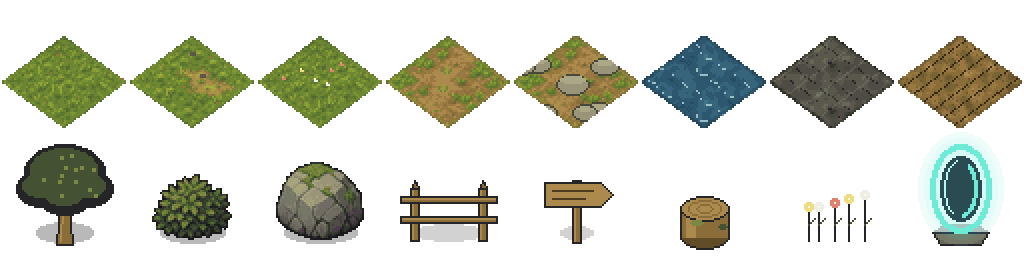
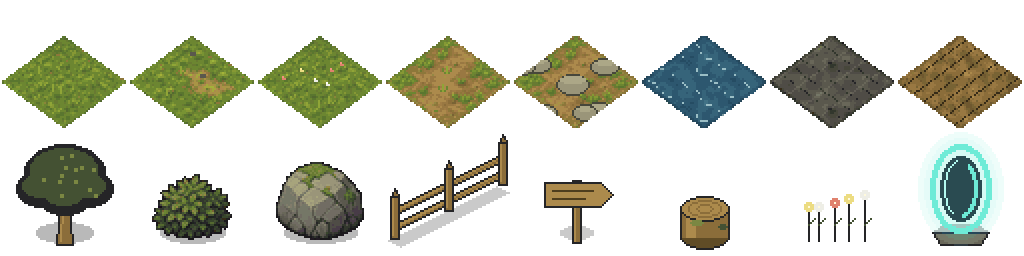
build 376 — the fence is isometric
It was drawn dead-on, two upright posts and level rails across the cell,
while everything beside it is in 3/4. It runs along the ground axis now and
recedes, with the shadow following the run.

sw cache bumped to karti-v376 with the build number.

Claude-Session: https://claude.ai/code/session_01Q55X5n8LA6xgNosSpJws7r

Changed region(s): [[0.375, 0.5312, 0.5, 0.9688]]

diff --git a/sw.js b/sw.js
@@ -2,7 +2,7 @@
    Deliberately narrow: it never touches cross-origin requests and never
    touches range requests, because a greedy SW broke a previous project.
    Bump CACHE on every deploy. */
-const CACHE = 'karti-v375';
+const CACHE = 'karti-v376';
 /* ── THE SHELL, NOT THE GAME ─────────────────────────────────────────────────
    This list used to be 205 entries / ~24 MB — every game module and every
    per-game portrait — so a first install (and EVERY version bump) re-fetched

diff --git a/index.html b/index.html
@@ -2449,7 +2449,7 @@ window.KARTI_THEME = (function(){
    over a MessageChannel, and the answer comes from the script iOS actually
    activated — not from the server, not from a constant. Keep BUILD in step
    with CACHE in sw.js (bump both on every deploy). */
-var KARTI_BUILD = 375;
+var KARTI_BUILD = 376;
 window.KARTI_BUILD = KARTI_BUILD;
 window.swVersion = function(){
   return new Promise(function(resolve){
